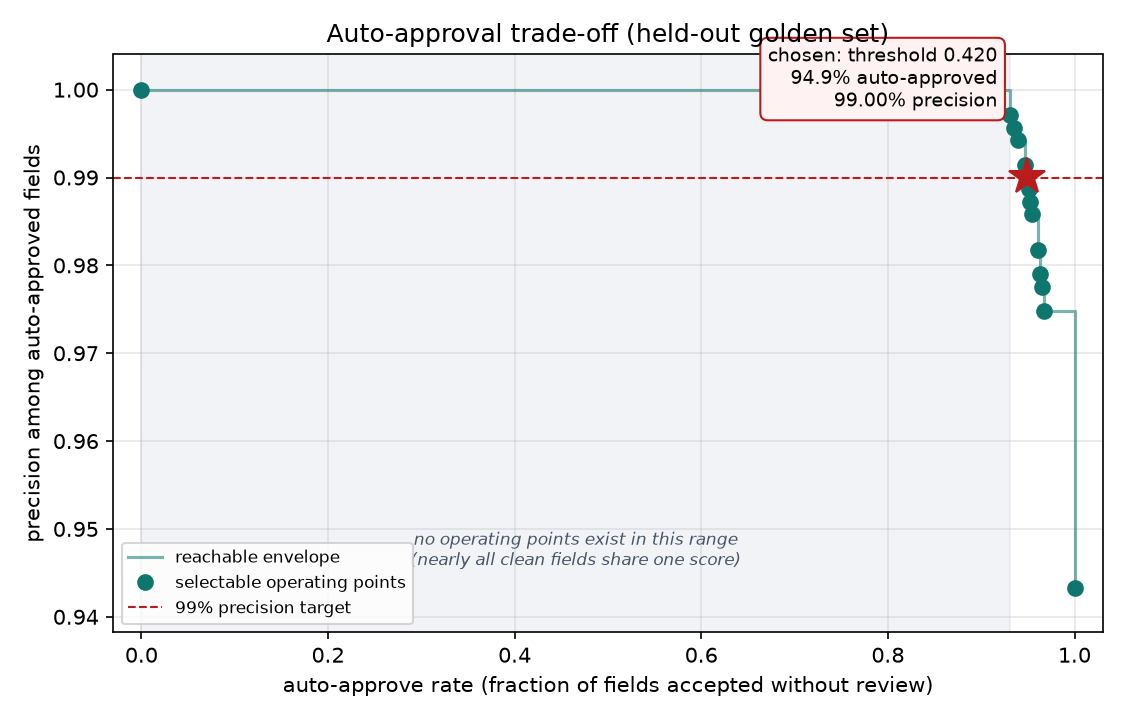
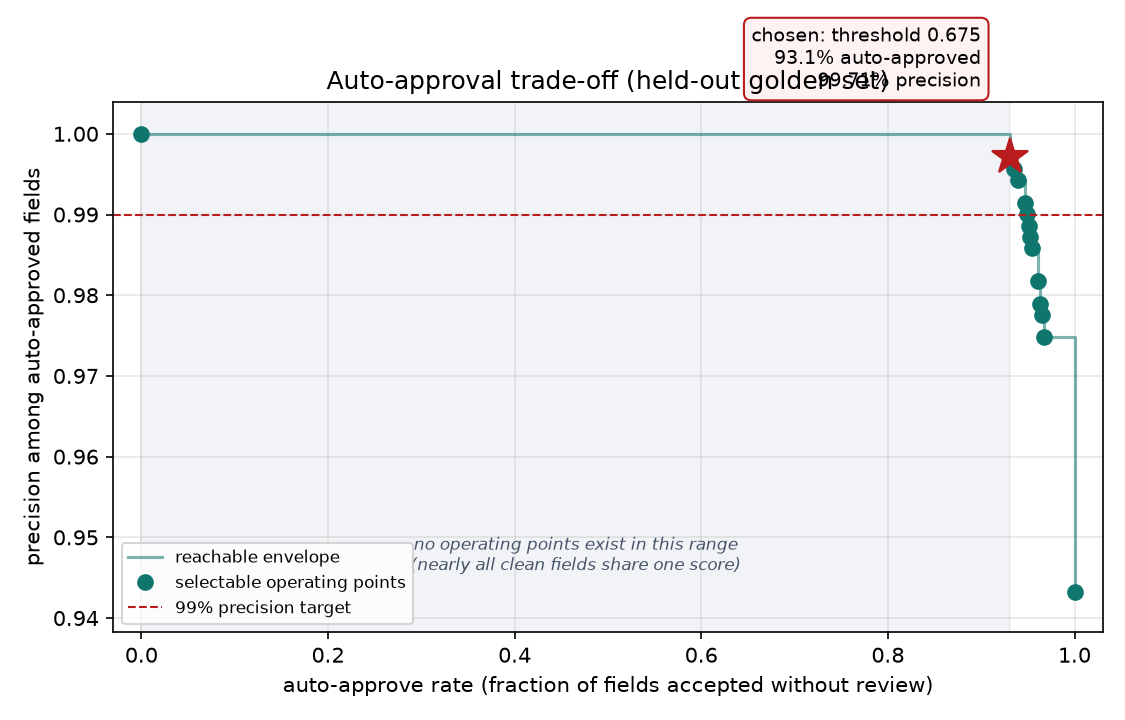
calibration: select the operating point for precision-safety, not max coverage
Max-coverage selection mechanically picked threshold 0.42, which sits below
the score band of fields with one failed validation rule and so auto-approved
four wrong invoice totals. Buying ~1.4% throughput by silently approving wrong
totals is the wrong trade for a document platform.

New rule: reach maximum coverage subject to the precision target, then take
the most precise point within 2pp coverage of it. Encoded in the study rather
than hand-edited into the config, so the next refit reproduces the decision
instead of reverting it.

  threshold             0.420 -> 0.675
  auto-approve rate     94.9% -> 93.1%
  precision             99.00% -> 99.71%
  surviving errors      7 -> 2 (both vendor; every other class now 100%)
  arithmetic_drift      89.74% -> 100%
  shifted_date          98.82% -> 100%

The rejected max-coverage point is recorded in the config and the report for
the record.

diff --git a/packages/evals/docfactory_evals/calibrate.py b/packages/evals/docfactory_evals/calibrate.py
@@ -338,9 +338,19 @@ def sweep(p: np.ndarray, y: np.ndarray) -> list[tuple[float, float, float]]:
 # A target only counts as met if it holds over a share of fields worth
 # operating on. Without this floor, a threshold that approves a handful of
 # lucky fields reports 100% precision at ~1% coverage and looks like success,
-# while a reviewer still hand-checks everything. 5% is a judgement call, and
-# it is the only arbitrary constant left in the study.
+# while a reviewer still hand-checks everything. 5% is a judgement call.
 MIN_USEFUL_RATE = 0.05
+
+# How much coverage we will trade for precision once the target is met.
+#
+# Selecting purely on max coverage is what produced the unsafe v2 point: it
+# picked threshold 0.42, which sits below the score band of fields with one
+# failed validation rule and so auto-approved four wrong invoice totals. The
+# same model at 0.67 gave 99.57% precision for 1.4pp less coverage. Buying
+# 1.4% throughput by silently approving wrong totals is the wrong trade for a
+# document platform, so the rule is now: reach max coverage subject to the
+# target, then take the most precise point within this much coverage of it.
+COVERAGE_TOLERANCE = 0.02
 
 
 def operating_point(
@@ -360,7 +370,11 @@ def operating_point(
         point for point in curve if point[2] >= target_precision and point[1] >= MIN_USEFUL_RATE
     ]
     if feasible:
-        return max(feasible, key=lambda point: point[1]), True
+        widest = max(point[1] for point in feasible)
+        # Precision-safety, not max coverage: among the points that give up at
+        # most COVERAGE_TOLERANCE of the best coverage, take the most precise.
+        affordable = [point for point in feasible if point[1] >= widest - COVERAGE_TOLERANCE]
+        return max(affordable, key=lambda point: (point[2], point[1])), True
     usable = [point for point in curve if point[1] >= MIN_USEFUL_RATE]
     if not usable:
         return (1.0, 0.0, 1.0), False
@@ -555,6 +569,9 @@ def main() -> None:
     curve = sweep(p_held, y_held)
     point, target_met = operating_point(curve, args.target_precision)
     threshold, rate, precision = point
+    # Kept for the record: what pure max-coverage selection would have chosen.
+    widest = [c for c in curve if c[2] >= args.target_precision and c[1] >= MIN_USEFUL_RATE]
+    max_coverage_point = max(widest, key=lambda c: c[1]) if widest else point
 
     DOCS_DIR.mkdir(parents=True, exist_ok=True)
     _plot_precision_vs_rate(curve, point, DOCS_DIR / "calibration_precision_vs_rate.png")
@@ -574,11 +591,24 @@ def main() -> None:
                     "std": [float(s) for s in sigma],
                 },
                 "operating_point": {
+                    "selection_rule": (
+                        "most precise point within "
+                        f"{COVERAGE_TOLERANCE:.0%} coverage of the max-coverage point"
+                    ),
                     "threshold": threshold,
                     "target_precision": args.target_precision,
                     "target_met": target_met,
                     "measured_precision": precision,
                     "auto_approve_rate": rate,
+                    "max_coverage_alternative": {
+                        "threshold": max_coverage_point[0],
+                        "auto_approve_rate": max_coverage_point[1],
+                        "measured_precision": max_coverage_point[2],
+                        "note": (
+                            "What max-coverage selection would have picked. Rejected: it "
+                            "auto-approves wrong invoice totals to buy ~1.4% throughput."
+                        ),
+                    },
                 },
                 "provenance": {
                     "fitted_at": datetime.now(UTC).isoformat(timespec="seconds"),
@@ -598,14 +628,25 @@ def main() -> None:
     )
 
     report = _render_report(
-        train, held, p_held, y_held, weights, point, target_met, curve, args.target_precision
+        train,
+        held,
+        p_held,
+        y_held,
+        weights,
+        point,
+        target_met,
+        curve,
+        args.target_precision,
+        max_coverage_point,
     )
     (DOCS_DIR / "calibration_results.md").write_text(report)
     print(report)
     print(f"config written to {CONFIG_PATH.relative_to(REPO_ROOT)}")
 
 
-def _render_report(train, held, p_held, y_held, weights, point, target_met, curve, target):
+def _render_report(
+    train, held, p_held, y_held, weights, point, target_met, curve, target, max_coverage_point
+):
     threshold, rate, precision = point
     meta = dataset_meta()
     n_train_docs = len({row.doc_id for row in train})

diff --git a/docs/calibration_results.md b/docs/calibration_results.md
@@ -1,6 +1,6 @@
 # Confidence calibration study
 
-Fitted 2026-08-18 · git `799b3dd` · dataset built 2026-08-18T01:51:46+00:00 from 345 documents · provider `mock` · corruption rate 0.35 (seed 1337)
+Fitted 2026-08-18 · git `fb07f68` · dataset built 2026-08-18T01:51:46+00:00 from 345 documents · provider `mock` · corruption rate 0.35 (seed 1337)
 
 Unit of analysis is the **field**: the decision being calibrated is whether one
 cell can be accepted without a human looking at it. Weights are fitted on the
@@ -19,22 +19,22 @@ Target met.
 
 | | value |
 |---|---|
-| threshold | **0.4200** |
-| auto-approve rate | **94.9%** of fields |
-| precision among auto-approved | **99.00%** |
-| fields still sent to review | 5.1% |
+| threshold | **0.6750** |
+| auto-approve rate | **93.1%** of fields |
+| precision among auto-approved | **99.71%** |
+| fields still sent to review | 6.9% |
 | target met | **yes** |
 
 ### What each precision target buys
 
 | target | reachable | threshold | auto-approve rate | actual precision |
 |---|---|---|---|---|
-| 99.5% | yes | 0.670 | 93.5% | 99.57% |
-| 99.0% | yes | 0.420 | 94.9% | 99.00% |
-| 98.5% | yes | 0.350 | 95.4% | 98.58% |
-| 98.0% | yes | 0.340 | 96.1% | 98.17% |
-| 97.0% | yes | 0.005 | 96.8% | 97.49% |
-| 95.0% | yes | 0.005 | 96.8% | 97.49% |
+| 99.5% | yes | 0.675 | 93.1% | 99.71% |
+| 99.0% | yes | 0.675 | 93.1% | 99.71% |
+| 98.5% | yes | 0.670 | 93.5% | 99.57% |
+| 98.0% | yes | 0.540 | 94.7% | 99.14% |
+| 97.0% | yes | 0.420 | 94.9% | 99.00% |
+| 95.0% | yes | 0.420 | 94.9% | 99.00% |
 
 ![precision vs auto-approve rate](calibration_precision_vs_rate.png)
 
@@ -60,9 +60,9 @@ are comparable across features.
 
 | layout | fields | auto-approve rate | precision |
 |---|---|---|---|
-| classic | 260 | 96.2% | 99.60% |
-| euro | 180 | 87.2% | 98.73% |
-| modern | 300 | 98.3% | 98.64% |
+| classic | 260 | 95.0% | 100.00% |
+| euro | 180 | 85.6% | 99.35% |
+| modern | 300 | 96.0% | 99.65% |
 
 ## By injected error class (holdout)
 
@@ -70,21 +70,19 @@ Documents are grouped by the error deliberately injected into them. `none` means
 
 | error class | fields | auto-approve rate | precision |
 |---|---|---|---|
-| `arithmetic_drift` | 40 | 97.5% | 89.74% |
+| `arithmetic_drift` | 40 | 67.5% | 100.00% |
 | `none` | 470 | 98.1% | 99.78% |
-| `shifted_date` | 100 | 85.0% | 98.82% |
+| `shifted_date` | 100 | 84.0% | 100.00% |
 | `transposed_line_amounts` | 60 | 88.3% | 100.00% |
 | `truncated_vendor` | 40 | 92.5% | 97.30% |
 | `wrong_vendor` | 30 | 90.0% | 100.00% |
 
 ## Where the ceiling comes from
 
-Of 42 wrong fields in the holdout, 7 would still be auto-approved at threshold 0.420. These are the residual error — the reason a higher precision target is or is not reachable.
+Of 42 wrong fields in the holdout, 2 would still be auto-approved at threshold 0.675. These are the residual error — the reason a higher precision target is or is not reachable.
 
 | injected class | field | count |
 |---|---|---|
-| `arithmetic_drift` | total | 4 |
-| `shifted_date` | invoice_date | 1 |
 | `truncated_vendor` | vendor | 1 |
 | `none` | vendor | 1 |
 
